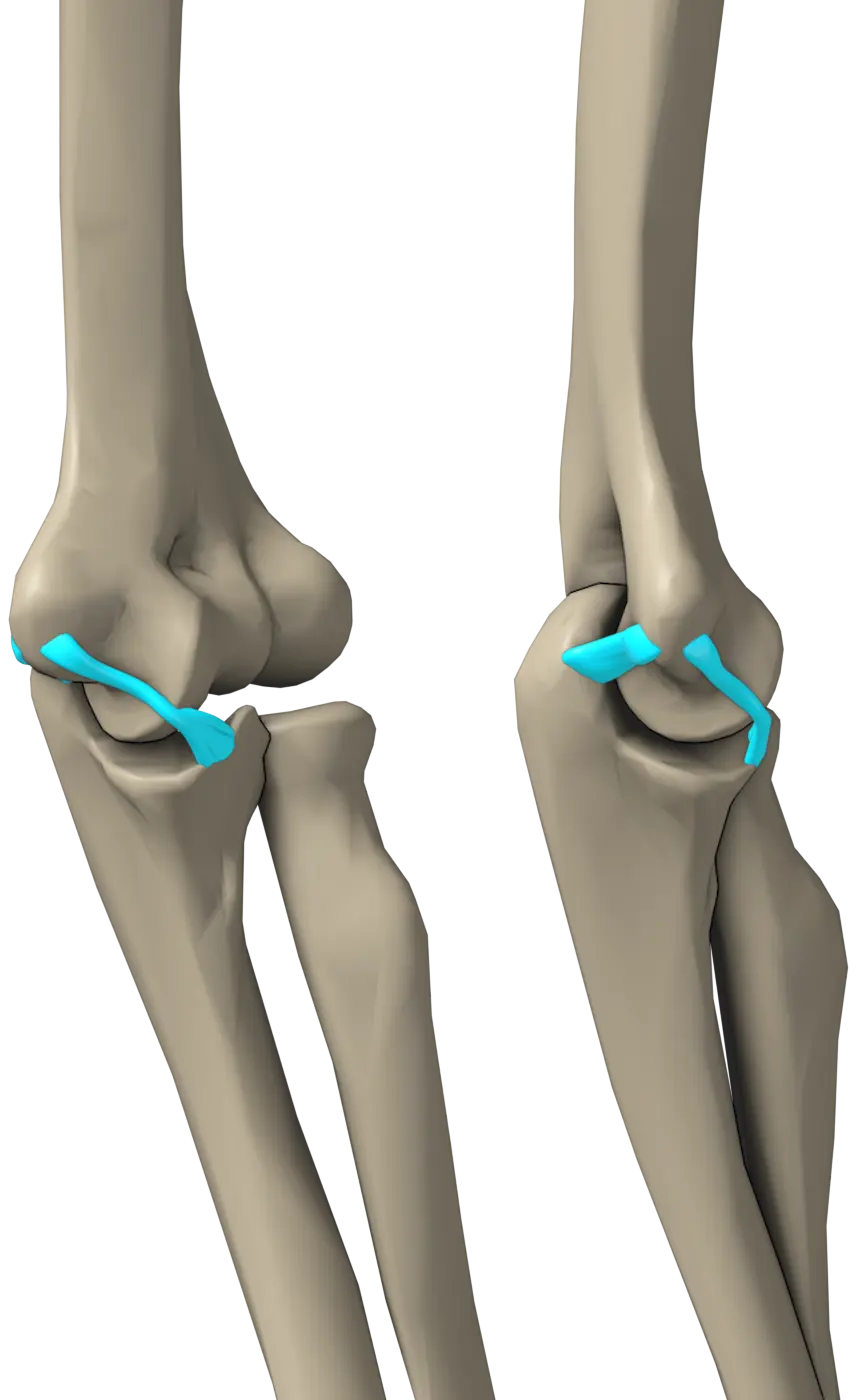
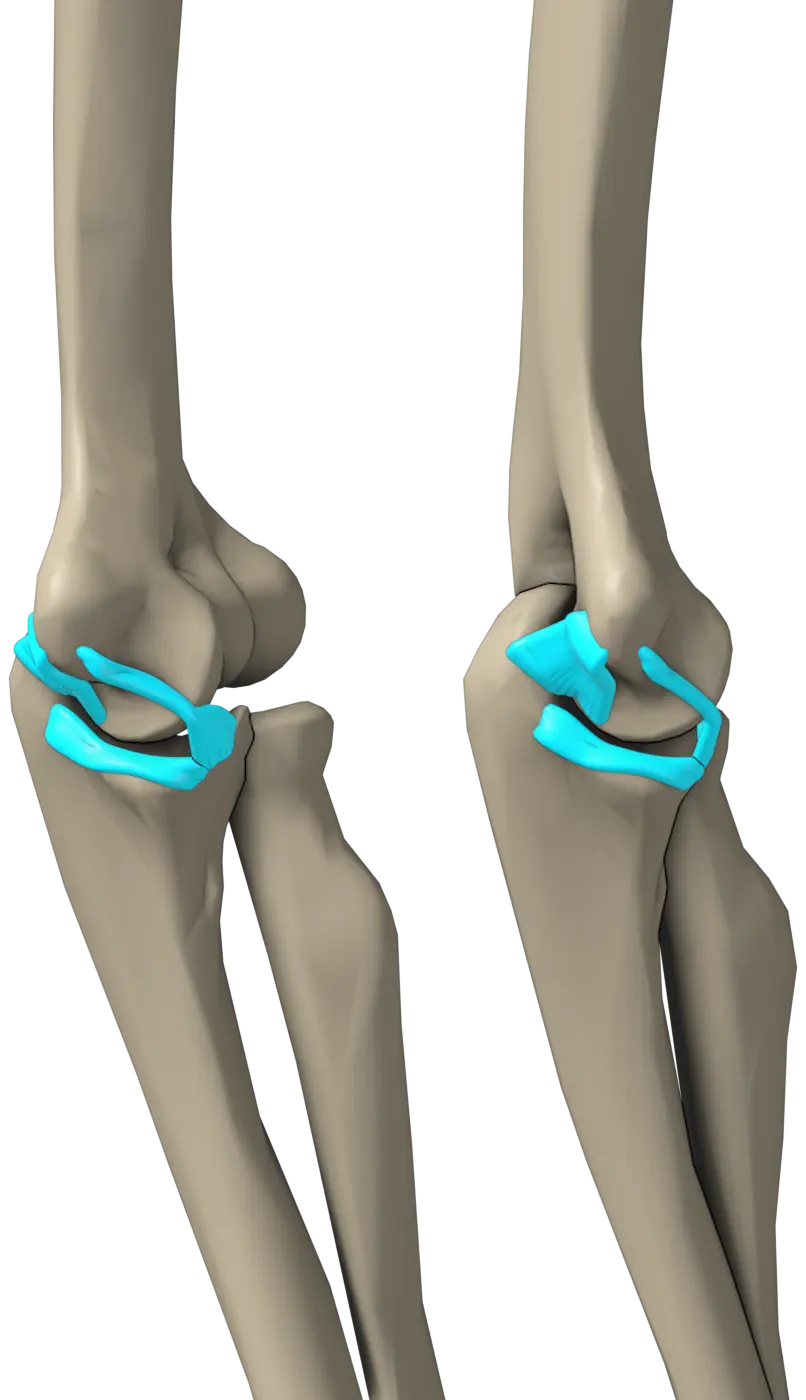
Redraw the UCL as its anterior, posterior and transverse bundles, from the owner's diagram

diff --git a/src/features/anatomy-revision/data/seed/panels.generated.ts b/src/features/anatomy-revision/data/seed/panels.generated.ts
@@ -116,6 +116,6 @@ export const MUSCLE_PANELS: MusclePanel[] = [
   { structureId: 'triquetrum', region: 'forearm-hand', subregion: 'wrist-hand', layer: 'landmark', width: 1490, height: 1437 },
   { structureId: 'twelfth-rib', region: 'back-core', subregion: 'torso', layer: 'landmark', width: 2314, height: 900 },
   { structureId: 'ulna', region: 'forearm-hand', subregion: 'elbow', layer: 'skeletal', width: 898, height: 1387 },
-  { structureId: 'ulnar-collateral-ligament', region: 'shoulder-arm', subregion: 'elbow', layer: 'skeletal', width: 857, height: 1400 },
+  { structureId: 'ulnar-collateral-ligament', region: 'shoulder-arm', subregion: 'elbow', layer: 'skeletal', width: 806, height: 1400 },
   { structureId: 'xiphoid-process', region: 'back-core', subregion: 'torso', layer: 'landmark', width: 2413, height: 900 },
 ];
